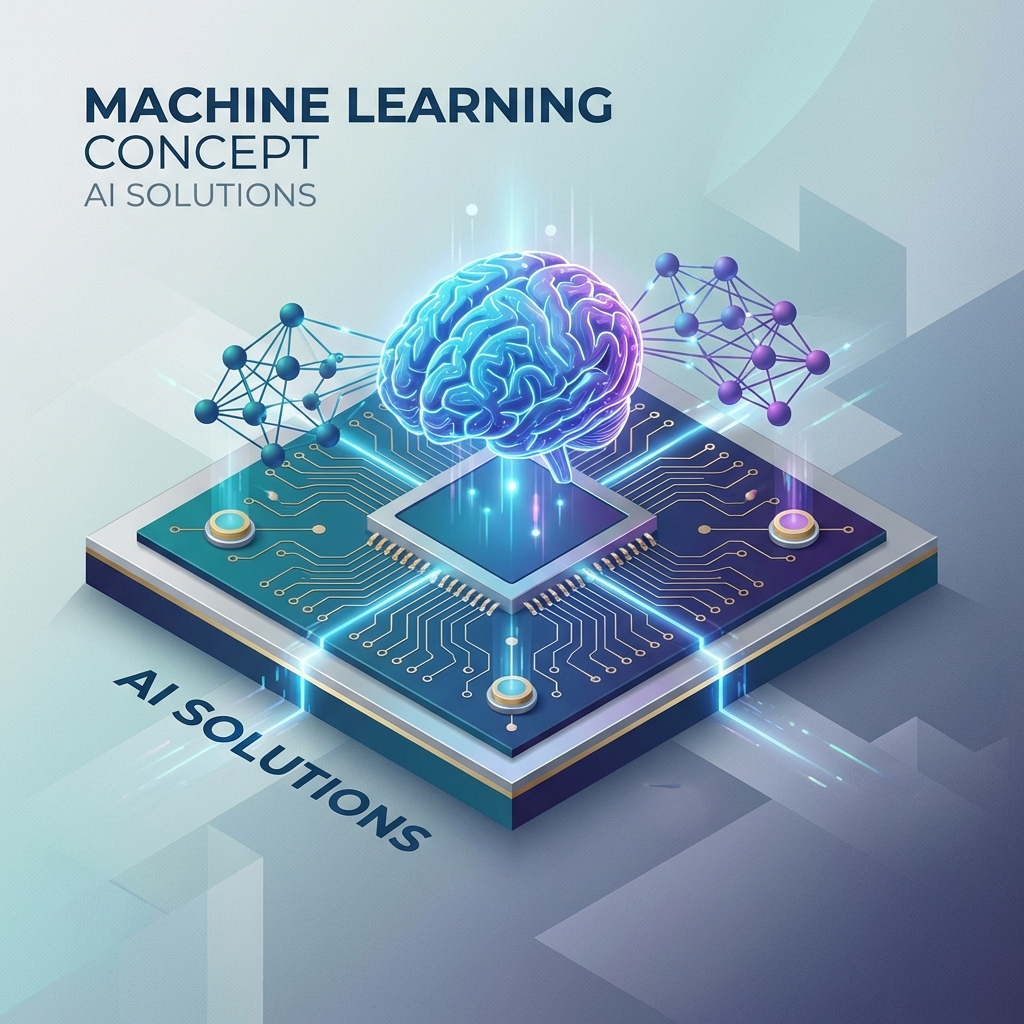
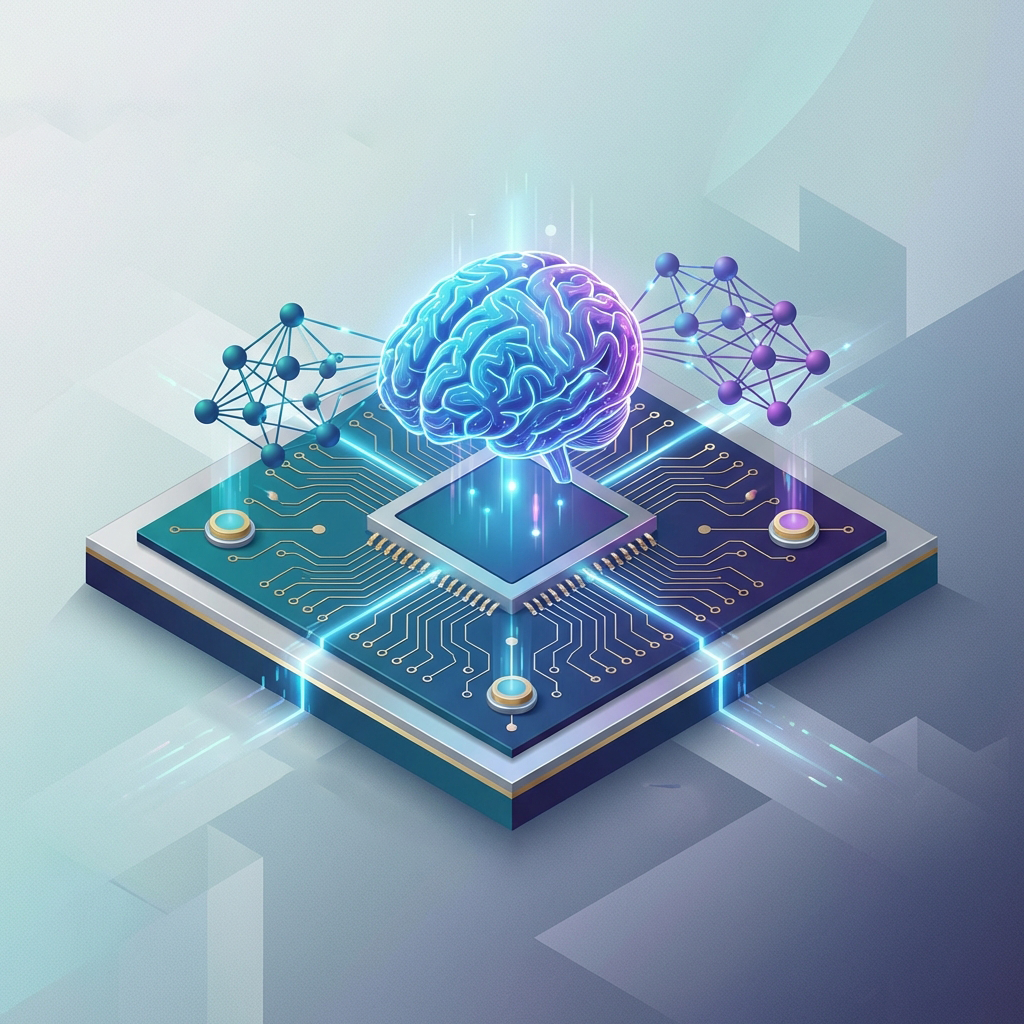
feat: v0.19.0 - Sayfa hero gorselleri, kolaj tasarim, icerik ve gorsel revizyonlari
- Kariyer Yollari ve Ogrenme sayfalarinda fotografli hero alani (gradient overlay)

- Surdurulebilir Deger sayfasinda daginik kolaj fotograf hero tasarimi

- Genc Muhendis Programi: ozel gorseller, icerik guncellemeleri, stok fotograflardan kurumsal gorsellere gecis

- MSP sunucu gorseli ve mikroservis donusumu gorseli guncellendi

- Hizmet sayfalarinda gorsel optimizasyonlari

- README guncellendi: proje yapisi, ozellikler ve v0.19.0 versiyon notu eklendi

Made-with: Cursor

Changed region(s): [[0.0625, 0.0625, 0.5938, 0.2188], [0.125, 0.6562, 0.4062, 0.8438]]

diff --git a/src/app/genc-muhendis-programi/page.tsx b/src/app/genc-muhendis-programi/page.tsx
@@ -28,13 +28,13 @@ export default function YoungEngineersPage() {
                 {/* Cinematic image */}
                 <div className="absolute inset-0">
                     <Image
-                        src="https://images.unsplash.com/photo-1522071820081-009f0129c71c?w=1400&q=80"
+                        src="/images/genc-muhendis/hero.png"
                         alt="Genç Mühendisler Ekibi"
                         fill
-                        className="object-cover opacity-30"
+                        className="object-cover opacity-50"
                         priority
                     />
-                    <div className="absolute inset-0 bg-gradient-to-b from-[#060B18] via-[#060B18]/60 to-[#060B18]" />
+                    <div className="absolute inset-0 bg-gradient-to-b from-[#060B18]/80 via-[#060B18]/40 to-[#060B18]" />
                 </div>
 
                 {/* Animated gradient orbs */}
@@ -69,8 +69,7 @@ export default function YoungEngineersPage() {
                                 transition={{ duration: 0.6, delay: 0.2 }}
                             >
                                 <p className="text-slate-400 max-w-xl mb-10 text-lg md:text-xl leading-relaxed font-medium">
-                                    Gerçek projelerde aktif rol al, modern teknolojilerle üret,
-                                    deneyimli mentorların rehberliğinde kariyerine{" "}
+                                Genç Mühendis Programı ile proje bazlı öğrenim, gerçek proje simülasyonları ve mentor desteğiyle kariyerine{" "}
                                     <span className="text-white font-semibold">güçlü bir başlangıç</span> yap.
                                 </p>
                             </motion.div>
@@ -212,7 +211,7 @@ export default function YoungEngineersPage() {
                                 <div className="relative rounded-2xl overflow-hidden shadow-2xl">
                                     <div className="aspect-[4/5]">
                                         <Image
-                                            src="/images/culture/culture-1.jpg"
+                                            src="/images/genc-muhendis/culture.png"
                                             alt="BGTS Genç Mühendisler Kültürü"
                                             fill
                                             className="object-cover"
@@ -224,12 +223,8 @@ export default function YoungEngineersPage() {
                                     <div className="absolute bottom-5 left-5 right-5">
                                         <div className="bg-white/10 backdrop-blur-lg border border-white/20 rounded-xl p-5">
                                             <p className="text-white/90 font-medium text-sm leading-relaxed italic">
-                                                &ldquo;Sadece kod yazmayı değil, birlikte üretmeyi ve sürekli gelişmeyi öğreniyorsun.&rdquo;
+                                                &ldquo;Farklı sektör dinamiklerini tanıyarak güçlü bir mühendislik ortamında deneyim kazanırsın.&rdquo;
                                             </p>
-                                            <div className="flex items-center gap-2 mt-3">
-                                                <div className="w-6 h-6 rounded-full bg-gradient-to-br from-blue-400 to-cyan-400" />
-                                                <span className="text-white/60 text-xs font-semibold">Genç Mühendis, 2024</span>
-                                            </div>
                                         </div>
                                     </div>
                                 </div>
@@ -242,10 +237,12 @@ export default function YoungEngineersPage() {
                             </Heading>
                             <div className="space-y-4 text-slate-500 text-[16px] leading-relaxed">
                                 <p>
-                                    Genç Mühendis Programı&apos;nda{" "}
-                                    <strong className="text-slate-800">gerçek uygulamalara</strong> dokunarak modern teknolojilerle üretme ve gelişme fırsatı bulursun. Deneyimli mentorların rehberliğinde{" "}
-                                    <strong className="text-slate-800">sürekli gelişim</strong>{" "}
-                                    odaklı bir ortamda çalışırsın.
+                                    Genç Mühendis Programı, gerçek projeler üzerinde çalışarak farklı sektörlerdeki{" "}
+                                    <strong className="text-slate-800">lider firmalarla deneyim kazanma</strong> fırsatı sunar. Teknik gelişimin yanında güçlü bir mühendislik kültürüyle seni geleceğe hazırlar.
+                                </p>
+                                <p>
+                                    Program süresince yalnızca teknik becerilerini değil,{" "}
+                                    <strong className="text-slate-800">problem çözme yaklaşımını</strong> ve takım içi iletişimini de geliştirirsin. Modern geliştirme süreçleri, gerçek proje senaryoları ve mentor desteğiyle profesyonel hayata güçlü bir başlangıç yaparsın.
                                 </p>
                             </div>
 
@@ -255,7 +252,7 @@ export default function YoungEngineersPage() {
                                     { icon: Target, title: "Gerçek Projeler", desc: "Canlı sistemlerde geliştirme" },
                                     { icon: Users, title: "1:1 Mentorluk", desc: "Kıdemli mühendis rehberliği" },
                                     { icon: Zap, title: "Tech Talks", desc: "Haftalık teknik sunumlar" },
-                                    { icon: TrendingUp, title: "Kariyer Yolu", desc: "Tam zamanlı pozisyon fırsatı" },
+                                    { icon: TrendingUp, title: "Kariyer Yolu", desc: "Tam zamanlı kariyer fırsatları" },
                                 ].map((f, i) => (
                                     <div key={i} className="group flex items-start gap-3 p-3.5 rounded-xl hover:bg-slate-50 transition-colors">
                                         <div className="w-9 h-9 rounded-lg bg-blue-50 text-blue-600 flex items-center justify-center shrink-0 group-hover:bg-blue-100 transition-colors">
@@ -278,10 +275,10 @@ export default function YoungEngineersPage() {
                 <Container>
                     <StaggerContainer className="grid grid-cols-2 lg:grid-cols-4 gap-3 lg:gap-4">
                         {[
-                            { img: "/images/culture/culture-1.jpg", title: "Hackathon", tag: "Yarışma" },
-                            { img: "/images/culture/culture-2.jpg", title: "Mentorluk", tag: "Gelişim" },
-                            { img: "/images/culture/culture-5.jpg", title: "Tech Talks", tag: "Öğrenme" },
-                            { img: "/images/culture/culture-3.jpg", title: "Takım", tag: "Kültür" },
+                            { img: "/images/genc-muhendis/mentorluk.jpg", title: "Mentorluk", tag: "Gelişim" },
+                            { img: "/images/genc-muhendis/ogrenme.jpg", title: "Tech Talks", tag: "Öğrenme" },
+                            { img: "/images/culture/culture-3.jpg", title: "Takım Çalışması", tag: "Kültür" },
+                            { img: "/images/genc-muhendis/proje.jpg", title: "Kariyer Planlama", tag: "Proje" },
                         ].map((story, i) => (
                             <StaggerItem
                                 key={i}
@@ -322,7 +319,7 @@ export default function YoungEngineersPage() {
                             </span>
                         </h2>
                         <p className="text-slate-400 text-lg font-medium max-w-lg">
-                            Seçimini yap, geleceğini şekillendir. Tüm programlar modern süreçlere tam entegrasyonu hedefler.
+                        Genç Mühendis Programı kapsamında farklı uzmanlık alanlarından birini seçebilirsin.
                         </p>
                     </AnimatedDiv>
 
@@ -478,7 +475,7 @@ export default function YoungEngineersPage() {
                             {
                                 step: "04",
                                 title: "Projeye Dahil",
-                                desc: "Gerçek projelerde aktif mühendis olarak çalışmaya başla.",
+                                desc: "Genç projelerde rol almaya başla.",
                                 icon: BriefcaseBusiness,
                                 accent: "emerald",
                             },

diff --git a/src/app/social-contribution/page.tsx b/src/app/social-contribution/page.tsx
@@ -12,11 +12,31 @@ export default function SocialContributionPage() {
         <div className="bg-white min-h-screen">
 
             {/* ═══════════ HERO ═══════════ */}
-            <section className="relative pt-32 pb-20 lg:pt-44 lg:pb-28 overflow-hidden bg-gradient-to-br from-slate-900 via-rose-950 to-pink-950 text-white">
-                <div className="absolute inset-0 bg-[url('/grid.svg')] opacity-10" />
-                <div className="absolute top-10 left-20 w-[350px] h-[350px] bg-rose-500/20 rounded-full blur-3xl pointer-events-none" />
-                <div className="absolute bottom-10 right-20 w-[400px] h-[400px] bg-pink-500/15 rounded-full blur-3xl pointer-events-none" />
-                <div className="absolute top-1/3 right-1/4 w-[300px] h-[300px] bg-red-500/10 rounded-full blur-3xl pointer-events-none" />
+            <section className="relative pt-32 pb-20 lg:pt-44 lg:pb-28 overflow-hidden bg-gradient-to-br from-slate-900 via-rose-950 to-pink-950 text-white min-h-[600px] lg:min-h-[700px]">
+
+                {/* Scattered collage photos */}
+                <div className="absolute inset-0 pointer-events-none" aria-hidden="true">
+                    <div className="absolute top-4 left-2 w-[260px] h-[180px] lg:w-[340px] lg:h-[240px] rounded-2xl rotate-[-6deg] shadow-[0_8px_30px_rgba(0,0,0,0.5)] border-2 border-white/15 bg-slate-900 overflow-hidden">
+                        <Image src="/images/collage/kolage3.jpg" alt="" fill className="object-cover object-top" />
+                    </div>
+                    <div className="absolute top-8 right-[3%] w-[220px] h-[160px] lg:w-[300px] lg:h-[210px] rounded-2xl rotate-[4deg] shadow-[0_8px_30px_rgba(0,0,0,0.5)] border-2 border-white/15 bg-slate-900 overflow-hidden">
+                        <Image src="/images/collage/kolage1.jpg" alt="" fill className="object-cover object-top" />
+                    </div>
+                    <div className="absolute top-[38%] left-2 w-[200px] h-[140px] lg:w-[280px] lg:h-[190px] rounded-2xl rotate-[3deg] shadow-[0_8px_30px_rgba(0,0,0,0.5)] border-2 border-white/15 bg-slate-900 overflow-hidden">
+                        <Image src="/images/collage/kolage4.jpg" alt="" fill className="object-cover object-top" />
+                    </div>
+                    <div className="absolute top-[32%] right-[1%] w-[240px] h-[170px] lg:w-[320px] lg:h-[220px] rounded-2xl rotate-[-5deg] shadow-[0_8px_30px_rgba(0,0,0,0.5)] border-2 border-white/15 bg-slate-900 overflow-hidden">
+                        <Image src="/images/collage/kolage.jpg" alt="" fill className="object-cover object-top" />
+                    </div>
+                    <div className="absolute bottom-[3%] left-[6%] w-[220px] h-[155px] lg:w-[310px] lg:h-[210px] rounded-2xl rotate-[5deg] shadow-[0_8px_30px_rgba(0,0,0,0.5)] border-2 border-white/15 bg-slate-900 overflow-hidden">
+                        <Image src="/images/collage/kolage2.jpg" alt="" fill className="object-cover object-top" />
+                    </div>
+                    <div className="absolute bottom-[1%] right-[4%] w-[250px] h-[175px] lg:w-[330px] lg:h-[230px] rounded-2xl rotate-[-3deg] shadow-[0_8px_30px_rgba(0,0,0,0.5)] border-2 border-white/15 bg-slate-900 overflow-hidden">
+                        <Image src="/images/collage/kolage5.jpg" alt="" fill className="object-cover object-top" />
+                    </div>
+                </div>
+
+                <div className="absolute inset-0 bg-gradient-to-b from-slate-900/50 via-rose-950/40 to-pink-950/50" />
 
                 <Container className="relative z-10">
                     <div className="max-w-4xl mx-auto text-center space-y-8">
@@ -33,10 +53,7 @@ export default function SocialContributionPage() {
                             Eşit fırsatlar yaratmayı ve sürdürülebilir etki sağlamayı önceliklendiriyoruz.
                         </p>
 
-
                     </div>
-
-
                 </Container>
             </section>
 
@@ -182,8 +199,8 @@ export default function SocialContributionPage() {
                                 <div className="absolute -inset-3 bg-gradient-to-r from-rose-500/20 to-pink-500/20 rounded-3xl blur-xl" />
                                 <div className="relative aspect-[4/3] rounded-2xl overflow-hidden shadow-2xl group">
                                     <Image
-                                        src="/images/culture/culture-5.jpg"
-                                        alt="Sosyal Sorumluluk"
+                                        src="/images/collage/kolage3.jpg"
+                                        alt="Topluma Değer Katıyoruz"
                                         fill
                                         className="object-cover transition-transform duration-700 group-hover:scale-105"
                                     />

diff --git a/src/app/career-paths/page.tsx b/src/app/career-paths/page.tsx
@@ -12,11 +12,15 @@ export default function CareerPathsPage() {
         <div className="bg-white min-h-screen">
 
             {/* ═══════════ HERO ═══════════ */}
-            <section className="relative pt-32 pb-20 lg:pt-44 lg:pb-28 overflow-hidden bg-gradient-to-br from-slate-900 via-blue-950 to-indigo-950 text-white">
-                <div className="absolute inset-0 bg-[url('/grid.svg')] opacity-10" />
-                <div className="absolute top-10 left-20 w-[350px] h-[350px] bg-blue-500/20 rounded-full blur-3xl pointer-events-none" />
-                <div className="absolute bottom-10 right-20 w-[400px] h-[400px] bg-indigo-500/15 rounded-full blur-3xl pointer-events-none" />
-                <div className="absolute top-1/3 right-1/4 w-[300px] h-[300px] bg-violet-500/10 rounded-full blur-3xl pointer-events-none" />
+            <section className="relative pt-32 pb-20 lg:pt-44 lg:pb-28 overflow-hidden text-white">
+                <Image
+                    src="/images/headers/kariyerini-sen-sekillendir.jpg"
+                    alt="Kariyerini Sen Şekillendir"
+                    fill
+                    priority
+                    className="object-cover"
+                />
+                <div className="absolute inset-0 bg-gradient-to-br from-slate-900/80 via-blue-950/70 to-indigo-950/60" />
 
                 <Container className="relative z-10">
                     <div className="max-w-4xl mx-auto text-center space-y-8">

diff --git a/src/app/learning/page.tsx b/src/app/learning/page.tsx
@@ -12,11 +12,15 @@ export default function LearningPage() {
         <div className="bg-white min-h-screen">
 
             {/* ═══════════ HERO ═══════════ */}
-            <section className="relative pt-32 pb-20 lg:pt-44 lg:pb-28 overflow-hidden bg-gradient-to-br from-slate-900 via-emerald-950 to-teal-950 text-white">
-                <div className="absolute inset-0 bg-[url('/grid.svg')] opacity-10" />
-                <div className="absolute top-10 left-20 w-[350px] h-[350px] bg-emerald-500/20 rounded-full blur-3xl pointer-events-none" />
-                <div className="absolute bottom-10 right-20 w-[400px] h-[400px] bg-teal-500/15 rounded-full blur-3xl pointer-events-none" />
-                <div className="absolute top-1/3 right-1/4 w-[300px] h-[300px] bg-cyan-500/10 rounded-full blur-3xl pointer-events-none" />
+            <section className="relative pt-32 pb-20 lg:pt-44 lg:pb-28 overflow-hidden text-white">
+                <Image
+                    src="/images/headers/ogrenme-hero.jpg"
+                    alt="Öğrenmek Bir Yaşam Biçimi"
+                    fill
+                    priority
+                    className="object-cover"
+                />
+                <div className="absolute inset-0 bg-gradient-to-br from-slate-900/80 via-emerald-950/70 to-teal-950/60" />
 
                 <Container className="relative z-10">
                     <div className="max-w-4xl mx-auto text-center space-y-8">

diff --git a/src/content/managed-services.ts b/src/content/managed-services.ts
@@ -506,7 +506,7 @@ export const MANAGED_SERVICES_CONTENT = {
                     title: "Sunucu ve Altyapı Sıkılaştırma",
                     subtitle: "Siber Güvenlik",
                     description: "Varsayılan yapılandırmalar izinsiz girişlere açıktır. BGTS, CIS Benchmark ve DISA STIG referansıyla sistemlerin saldırı yüzeyini kalıcı olarak daraltır.",
-                    image: "/images/iso/hardening.png",
+                    image: "/images/iso/sunucu.jpg",
                     icon: Lock,
                     tags: ["CIS Benchmark", "DISA STIG", "Windows Server", "Active Directory", "PAM", "Just-in-Time", "GPO", "Zero Trust"],
                     features: [

diff --git a/src/content/software-development.ts b/src/content/software-development.ts
@@ -140,7 +140,7 @@ export const SOFTWARE_DEV_CONTENT = {
             title: "Yazılım Modernizasyonu & Mikroservis Dönüşümü",
             subtitle: "Mikroservis Dönüşümü",
             icon: RefreshCw,
-            image: "/images/services/yazilim-modernizasyonu.png",
+            image: "/images/services/mikroservis-donusumu.png",
             description: "Legacy sistemlerinizi modern mimarilere taşıyor, performans ve maliyet optimizasyonu sağlıyoruz.",
             features: [
                 {

diff --git a/README.md b/README.md
@@ -64,6 +64,8 @@ Bu proje, BGTS'nin kurumsal web varlığını en güncel web teknolojileriyle su
 - **Hero Slider:** Ana sayfada çok slaytlı, animasyonlu kahraman alanı
 - **Framer Motion Animasyonları:** Scroll-triggered reveal, spring animasyonları, sayfa geçişleri
 - **Glassmorphism Efektleri:** Cam efektli kart ve bölüm tasarımları
+- **Fotoğraflı Hero Alanları:** Kariyer, Öğrenme ve Genç Mühendis sayfalarında gerçek fotoğraflı hero bölümleri (gradient overlay)
+- **Kolaj Tasarım:** Sürdürülebilir Değer sayfasında dağınık fotoğraf kolajı ile duygusal hikaye anlatımı
 
 ### AI Destekli Chatbot (Ayla) — *Şu anda pasif*
 - Groq API üzerinde çalışan Llama 3.3 70B modeli
@@ -98,8 +100,11 @@ Bu proje, BGTS'nin kurumsal web varlığını en güncel web teknolojileriyle su
 bgts-web/
 ├── public/
 │   └── images/              # Tüm statik görseller
+│       ├── collage/         # Sosyal katkı kolaj görselleri
+│       ├── genc-muhendis/   # Genç Mühendis Programı görselleri
 │       ├── headers/         # Sayfa hero görselleri
 │       ├── iso/             # İzometrik illüstrasyonlar (MSP)
+│       ├── services/        # Hizmet sayfası görselleri
 │       └── logos/           # Marka ve partner logolar
 │
 ├── src/
@@ -152,7 +157,9 @@ bgts-web/
 │   │   └── ui/              # Section, Container, Typography, Button, vb.
 │   │
 │   ├── content/             # İçerik veri katmanı (TypeScript objeleri)
-│   │   └── home.ts          # Ana sayfa içerik verisi
+│   │   ├── home.ts          # Ana sayfa içerik verisi
+│   │   ├── software-development.ts
+│   │   └── managed-services.ts
 │   │
 │   └── lib/
 │       ├── email.ts         # Nodemailer transporter
@@ -404,6 +411,7 @@ Test altyapısı: **Vitest** + **@testing-library/react** + **jsdom**
 
 | Versiyon | Öne Çıkan Özellik |
 |----------|-------------------|
+| v0.19.0 | Sayfa hero alanları fotoğraflı tasarıma geçirildi (Kariyer Yolları, Öğrenme, Genç Mühendis Programı); Sürdürülebilir Değer sayfasında kolaj fotoğraf hero tasarımı; Genç Mühendis Programı içerik ve görsel revizyonu (özel fotoğraflar, metin güncellemeleri); hizmet sayfalarında görsel güncellemeleri (MSP sunucu görseli, mikroservis dönüşümü); stok fotoğraflar yerine kurumsal görsellere geçiş. |
 | v0.18.0 | Logo sistemi yenilendi: beyaz logo varyantı eklendi, Header ve Footer'da CSS filter yerine doğrudan beyaz logo kullanımına geçildi, mega menü kart layoutları iyileştirildi, kullanılmayan referans logolar temizlendi. |
 | v0.17.0 | Kapsamlı SEO ve içerik revizyonu: tüm sayfalar için metadata layout dosyaları, sektör sayfalarında başlık/açıklama güncellemeleri ve tag temizliği, mega menü alt metin revizyonları, infografik sayfası BGTS markasına uyumlandırma, sosyal katkı görseli güncelleme, 15+ kullanılmayan bileşen temizliği, AnimatedElements bileşeni, middleware eklenmesi, ürün sayfalarına JSON-LD yapılandırılmış veri eklenmesi. |
 | v0.16.0 | Genç Mühendis Programı revizyonları: program başlıkları kısaltıldı, içerikler ve hedefler güncellendi, story kart metin boyutu düzeltildi, gereksiz ikon kaldırıldı. |